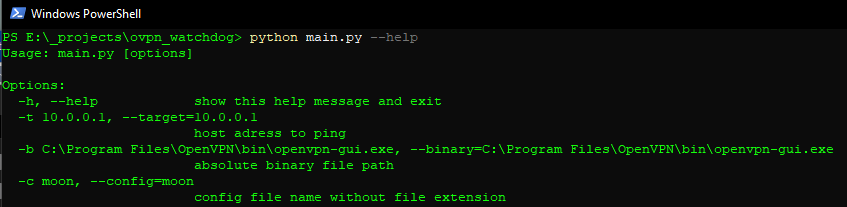
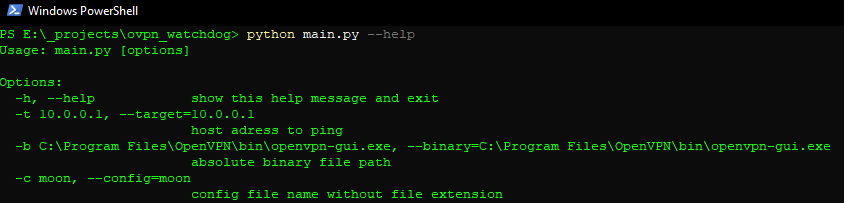
* readme added console help output screenshot * help_output.png adjustment

diff --git a/main.py b/main.py
@@ -1,10 +1,10 @@
 import configparser
-import platform    # For getting the operating system name
-import subprocess  # For executing a shell command
+import platform 
+import subprocess 
 import sys
 import pathlib
-import time      
-from optparse import OptionParser  
+import time
+from optparse import OptionParser
 
 shouldRun = True
 maxPingAttempts = 3
@@ -94,7 +94,7 @@ while(shouldRun): # <- bad practice
             cmd = 'start /b cmd /c \"' + ovpnBinaryPath + '\" --connect ' + ovpnConfigFile
             # run and remember the process as 'x'
             x = subprocess.Popen(cmd, shell=True)
-            #subprocess.call(["C:\\Program Files\\OpenVPN\\bin\\openvpn-gui.exe", "--connect Hollaender_real"])
+            #subprocess.call(["C:\\Program Files\\OpenVPN\\bin\\openvpn-gui.exe", "--connect testerino"])
             #callReturnValue = subprocess.call(ovpnBinaryPath + " --command connect " + ovpnConfigPath)
         else:
             #TODO: linux && mac process startup

diff --git a/README.md b/README.md
@@ -6,6 +6,7 @@ If failing to respond after a given number x of pings it attempts to reconnect v
 For more details check the code itself or use the implemted command help via "python main.py -h".
 Please keep in mind: This code was chunked together by a noob python dev in an three hour night shift.. You should see it more like a cheat sheet || inspiration.
 
+![console help output screenshot](https://github.com/0x1911/ovpn_watchdog/blob/main/_img/help_output.png)
 
 ## Requirements:
 * Win OS (only tested on Win OS so far! It'll break when trying to startup the ovpn-gui client on linux/mac <- 27.10.2022)
